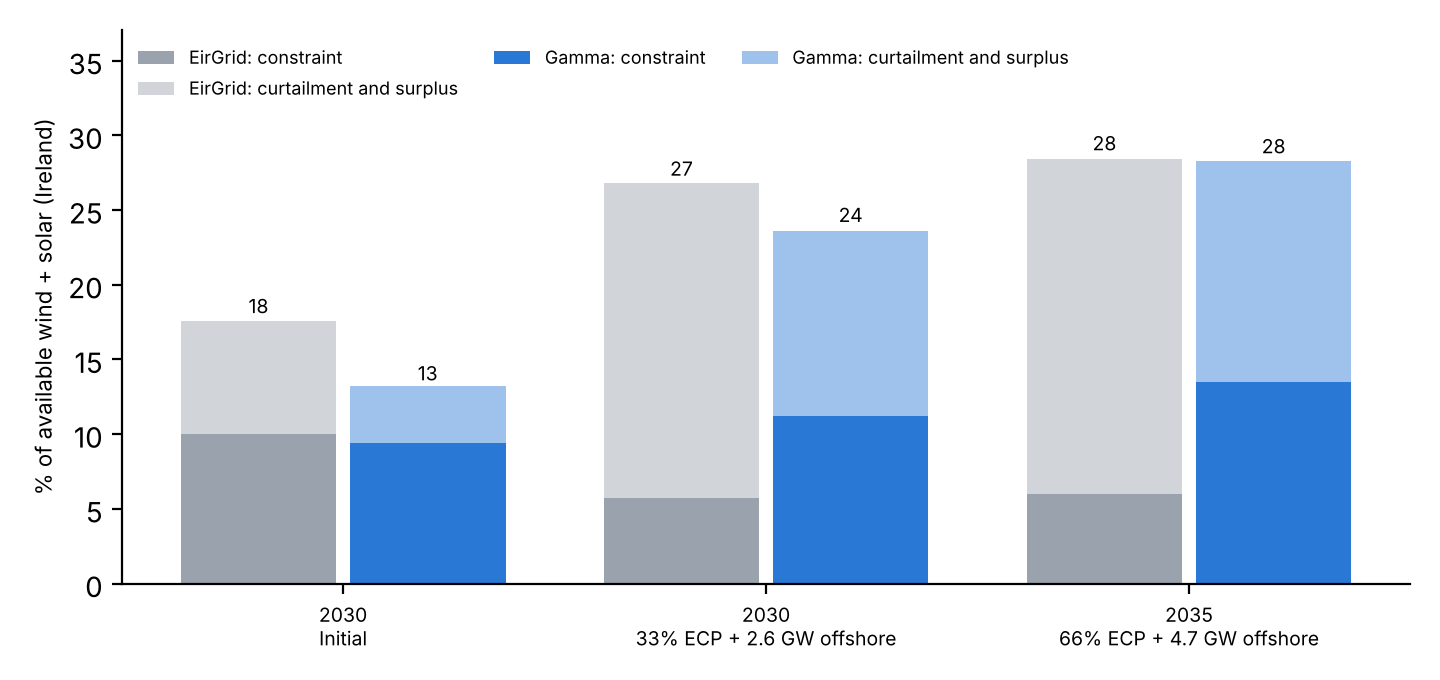
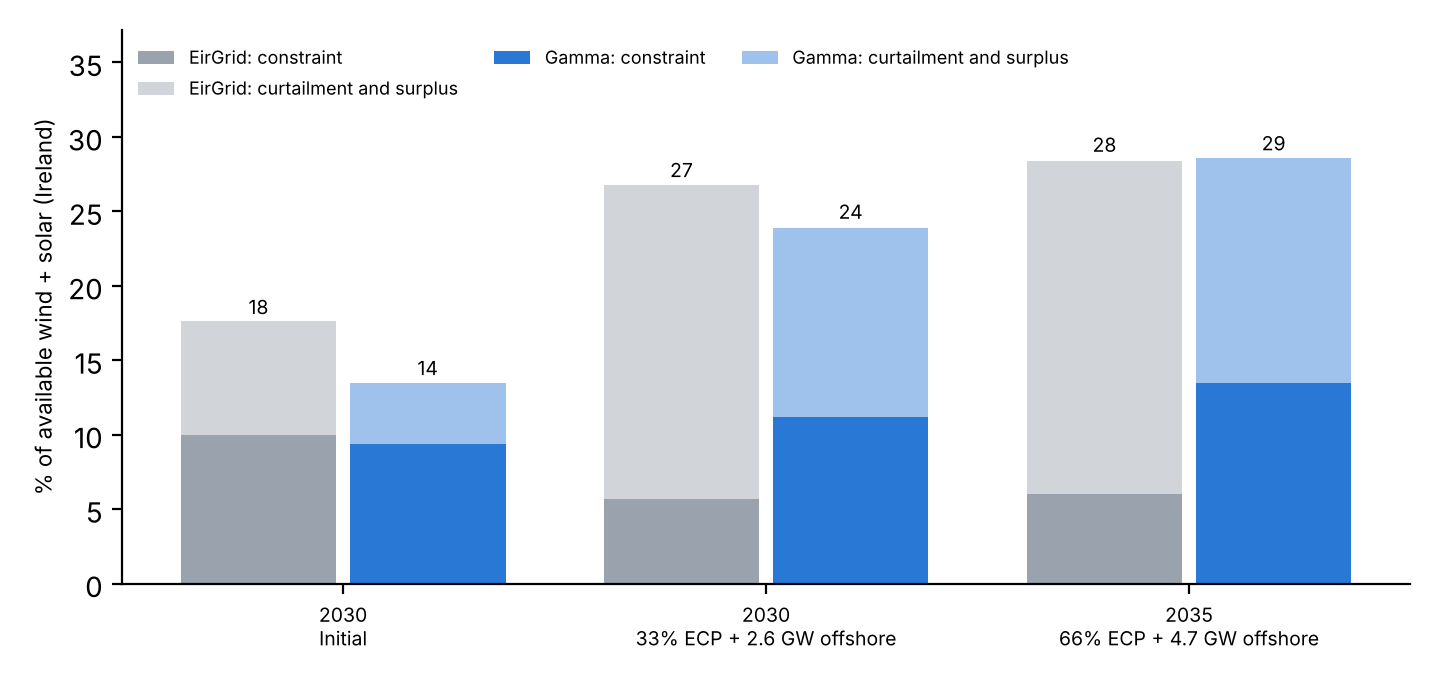
CHANGELOG, equations and validation output for the 2026 calibration corrections
Claude-Session: https://claude.ai/code/session_011KZyocPJ699iaCeVk3fzbz

diff --git a/Gamma.py b/Gamma.py
@@ -3413,8 +3413,8 @@ def _run_demonstrator():
             base_weather_oversupply_2026 = base_run['curt_pct']
         other_curt_pct = max(0.0, base_2026_curt - base_weather_oversupply_2026)
         print(f">> 2026 curtailment {base_2026_curt:.2f}% = modelled SNSP {base_weather_oversupply_2026:.2f}% "
-              f"(at {HISTORICAL_SNSP_PCT:.0f}%, months {wind_record_months_2026[:1]}-{wind_record_months_2026[-1:]} "
-              f"as recorded; full modelled year {base_run['curt_pct']:.2f}%) + other causes held fixed {other_curt_pct:.2f}%")
+              f"(at {HISTORICAL_SNSP_PCT:.0f}%, months {wind_record_months_2026[0] if wind_record_months_2026 else '-'} to "
+              f"{wind_record_months_2026[-1] if wind_record_months_2026 else '-'} as recorded; full modelled year {base_run['curt_pct']:.2f}%) + other causes held fixed {other_curt_pct:.2f}%")
         base_model_cons_2026 = base_run['cons_pct']
         print(f">> Modelled 2026 constraint: {base_model_cons_2026:.2f}% of all-island available wind "
               f"(IE {base_run['IE_own_pct']:.2f}% of IE wind, NI {base_run['NI_own_pct']:.2f}% of NI wind); "

diff --git a/CHANGELOG.md b/CHANGELOG.md
@@ -3,6 +3,36 @@
 Handover record of changes to `DemonstratorV2.py` and its data builder `build_all_island_dd.py`.
 The full methodology is in `Technical_Briefing_README.docx`.
 
+## 2026 curtailment calibration: seven minimum units and the months on record: 12 November 2026
+
+Two corrections to the model, both in how the 2026 anchor year is calibrated. Found in the referee review of 11 to 12 November.
+
+1. Minimum units. The requirement in force in 2026 is at least 7 units on load all-island, with at least 4 in Ireland and at least 2 in Northern Ireland (TSOs' Weekly Operational Constraints Update, week 36 of 2026). The anchor year used the scenario's own unit counts: 4 + 2 (900 MW) in Historical_Trend and 4 + 1 (750 MW) in the EirGrid runs. It now uses `HISTORICAL_MUON_UNITS = 7`, a floor of 1,050 MW at 150 MW per unit, and a scenario path's straight line to its first listed year starts from 7. Scenario and path values after 2026 are unchanged. The floor now binds in 219 hours of 2026.
+2. Residual curtailment. Recorded 2026 wind curtailment (4.90%) covers January to August, the months in the dispatch-down records. It was compared with modelled curtailment over the full modelled year, which includes the October to December forecast months. The modelled value is now taken over the same months as the records. Modelled curtailment in January to August is lower than over the full year, so the residual rises. The records support a higher autumn share: September to December curtailment was at or above the January to August share in 2021, 2022, 2023 and 2025, and the full-year share averaged 1.13 times the January to August share over 2021 to 2025. The solar residual is unchanged in method (last twelve months of records against the modelled year).
+
+Rerun: EirGrid_Validation_2030_Initial, EirGrid_Validation_2030_2035, EirGrid_Extended and Historical_Trend to 2100 (charts off), and `analysis/eirgrid_validation.py`. Not rerun: the GSS-2 prediction (the registered rows stand as registered and are not replaced), sigma interval ends, published network path after 2035, interconnector sensitivity, grid reinforcement study, sensitivity study, and the paper figures. These need a rerun before the paper is updated.
+
+| Result | Before | Now |
+|---|---|---|
+| 2026 minimum units floor (MW) | 750 or 900 | 1,050 |
+| Modelled 2026 wind curtailment from the operating rules, full year / January to August (%) | 2.23 / not computed | 2.34 / 1.83 |
+| Wind residual in 2026 (points of available wind) | 2.67 | 3.07 |
+| Solar residual in 2026 (points of available solar) | 6.44 | 6.41 |
+| Modelled 2026 wind curtailment, full year (%) | 4.90 | 5.60 |
+| Modelled 2026 dispatch down, wind and solar (%) | 15.2 | 15.7 |
+| GSS-1 validation, Gamma minus EirGrid total, 2030 Initial / 2030 + 2.6 GW offshore / 2035 (points) | -4.5 / -3.1 / -0.2 | -4.1 / -2.8 / +0.1 |
+| Gamma curtailment, same cases (%) | 3.8 / 12.4 / 14.8 | 4.1 / 12.7 / 15.1 |
+| EirGrid_Extended dispatch down 2030 / 2035 / 2050 / 2100 (%) | 22.0 / 24.7 / 32.1 / 48.0 | 22.3 / 25.0 / 32.3 / 48.2 |
+| Historical_Trend dispatch down 2035 / 2050 / 2100 (%) | 18.6 / 20.0 / 24.8 | 18.9 / 20.3 / 25.0 |
+| Wind and solar share of demand, EirGrid_Extended 2030 / 2050 / 2100 (%) | 54.2 / 75.1 / 81.5 | 53.9 / 74.8 / 81.2 |
+| Fossil share of primary energy, EirGrid_Extended 2035 / 2050 / 2100 (%) | 74.0 / 59.2 / 27.2 | 74.1 / 59.4 / 27.6 |
+| Same, Historical_Trend 2050 / 2075 (%) | 69.8 / 59.9 | 69.9 / 60.0 |
+| Firm capacity 2050 / 2100, EirGrid_Extended (GW) | 14.4 / 24.9 | unchanged |
+
+Each correction alone, EirGrid_Extended: seven units gives a wind residual of 2.56 points and a 2050 fossil share of 59.2%; the months on record gives 3.15 points and 59.4%.
+
+Paper text to update once this is merged and the remaining runs are done: the sentence under equation 5 ("900 MW for the 2026 requirement"), the residual values in the main text and Supplementary S2 (2.23% and 2.67%), the statement that the minimum units floor contributes nothing, Table 4, and every figure quoted from the rows above.
+
 ## Offshore wind yield set to EirGrid's study profile: 11 November 2026
 
 Correction to the model. Offshore availability used the onshore per-GW shape unscaled, so offshore wind ran at the onshore capacity factor (28% over the thirteen weather years). It now uses the same weather multiplied by a factor k and capped at installed capacity in each interval (the approach of the regulators' SEM PLEXOS model), with k = 1.242 solved so that offshore availability averages 40% in weather year 2020, the year of EirGrid's ECP constraint studies. EirGrid's vendor offshore profile implies about 40% that year (GSS-1 workbook, project extract of 25 October). Over all thirteen weather years offshore averages 35.1% against 28.3% onshore. `GAMMA_OFFSHORE_CF` sets the 2020 target (e.g. 0.45, the GCS planning value). The scaled shape keeps offshore fully correlated with onshore, which overstates coincident surplus.

diff --git a/docs/model_equations.md b/docs/model_equations.md
@@ -18,7 +18,7 @@ Source for Supplementary Section S2 and the equations in Section 4 of the Phase 
 | $C_{z,t}$ | expected constraint in zone $z$ | MW |
 | $D_t$ | electricity demand (generated basis) | MW |
 | $s$ | SNSP limit | – |
-| $P^{\min}$ | minimum synchronous output (150 MW per required unit) | MW |
+| $P^{\min}$ | minimum synchronous output (150 MW per required unit; 7 units, 1,050 MW, in 2026) | MW |
 | $L_t$ | operating ceiling on non-synchronous output | MW |
 | $P^{ch}_t, P^{dis}_t$ | battery charge and discharge | MW |
 | $S_t$ | battery state of charge | MWh |
@@ -101,6 +101,7 @@ $$X_t = \sum_z C_{z,t} + K_t + P^{ch}_t + V_t .$$
 
 Recorded high frequency and minimum generation curtailment that the ceiling does not reproduce is carried as a residual:
 $$\kappa = c^{rec}_{2026} - c^{mod}_{2026}. \tag{6}$$
+Both terms cover the months of 2026 in the dispatch-down records (January to August at 12 November 2026): $c^{rec}_{2026}$ is recorded curtailment and $c^{mod}_{2026}$ modelled curtailment over those months, each as a share of available wind in the same months.
 On the delivered basis, residual energy in year $y$ is
 $$R_y = \kappa\,\frac{A_{2026}}{Q_{2026}}\,Q_y,$$
 where $A$ is available and $Q$ dispatched wind (or solar) energy. Since $\kappa A_{2026}/Q_{2026} < 1$, $R_y < Q_y$. It is deducted from delivered energy and supplied by firm plant.
